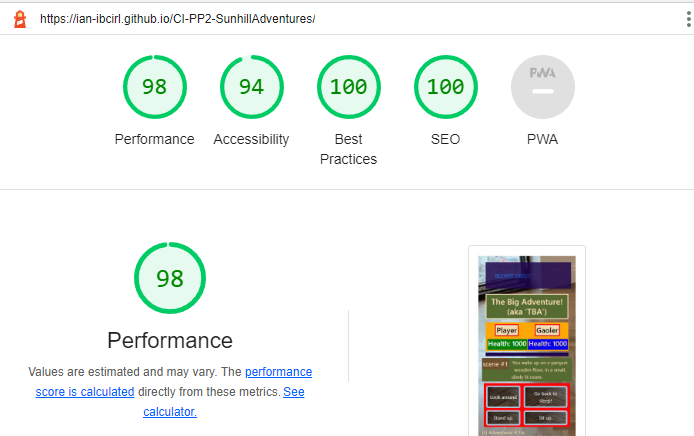
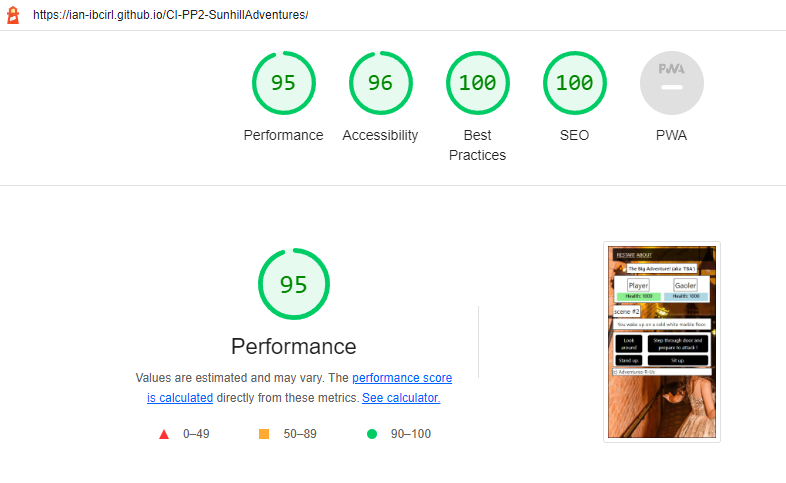
fixed css align-items error

diff --git a/assets/css/style.css b/assets/css/style.css
@@ -19,7 +19,7 @@ body {
     font-family: 'Segoe UI', Tahoma, Geneva, Verdana, sans-serif;
     display: flex;
     justify-content: left;
-    align-items: left;
+    align-items:center;
     width: 100vw;
     height: 100vh;
 }
